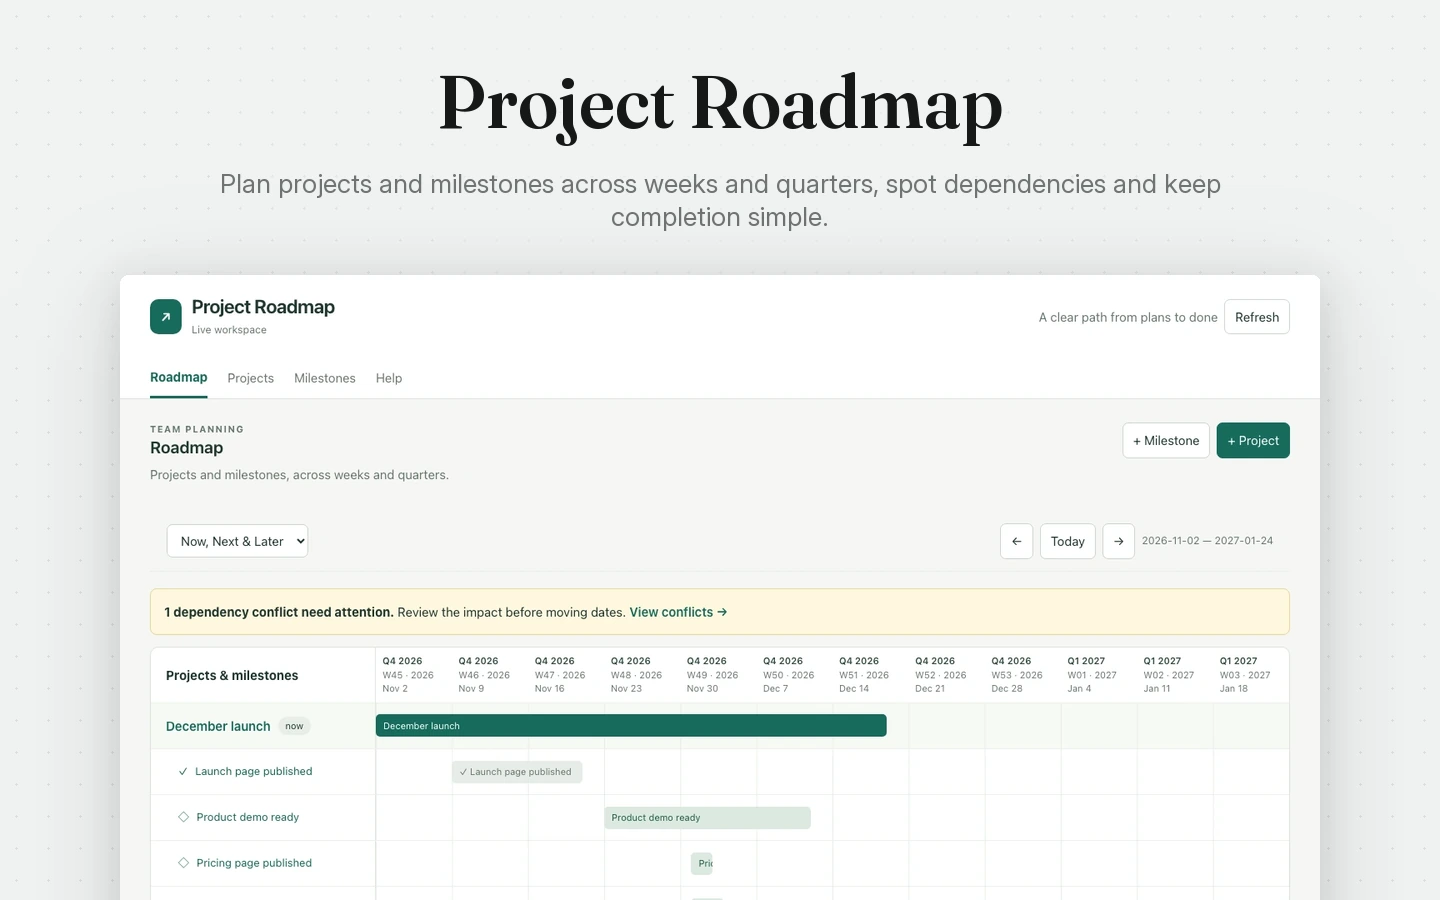
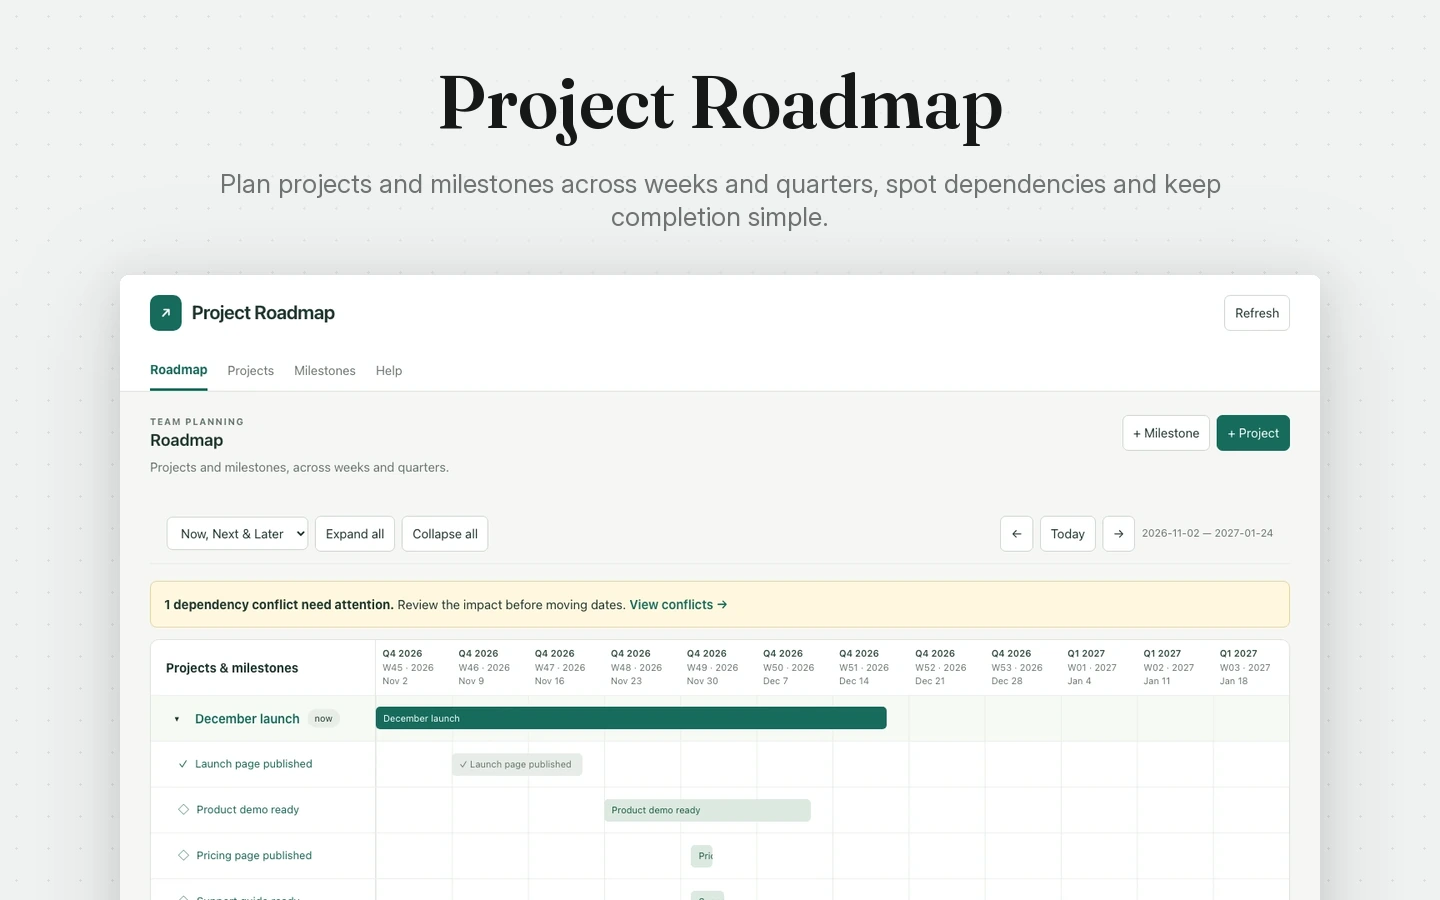
feat(project-roadmap): remember collapsed projects and show dependencies

diff --git a/templates/busa-project-roadmap/content/busa-project-roadmap-app/app/js/app.js b/templates/busa-project-roadmap/content/busa-project-roadmap-app/app/js/app.js
@@ -18,6 +18,23 @@ const root = document.querySelector("#app"),
   dialog = document.querySelector("#editor");
 const demo = new URLSearchParams(location.search).get("demo") === "1";
 const provider = demo ? createDemoProvider() : createLiveProvider();
+// Presentation preferences only; project and milestone data stay in Busa.
+const collapseKey = `project-roadmap:collapsed:v1:${location.pathname}:${demo ? "demo" : "live"}`;
+let collapsedProjects = new Set();
+try {
+  const saved = JSON.parse(localStorage.getItem(collapseKey) || "[]");
+  if (Array.isArray(saved))
+    collapsedProjects = new Set(saved.filter((id) => typeof id === "string"));
+} catch {
+  /* Storage can be unavailable in restricted browser contexts. */
+}
+function rememberCollapsed() {
+  try {
+    localStorage.setItem(collapseKey, JSON.stringify([...collapsedProjects]));
+  } catch {
+    notify("Your browser could not save the roadmap display preference.");
+  }
+}
 const state = {
   projects: [],
   milestones: [],
@@ -52,7 +69,7 @@ async function load() {
   });
 }
 function shell(content) {
-  root.innerHTML = `<header><div class="top"><div class="brand"><span class="mark" aria-hidden="true">↗</span><div><h1>Project Roadmap</h1><small>${e(provider.name)}</small></div></div><div class="actions"><span class="muted">A clear path from plans to done</span><button data-action="refresh" ${state.busy ? "disabled" : ""}>Refresh</button></div></div><nav aria-label="Sections">${["roadmap", "projects", "milestones", "help"].map((screen) => `<button data-screen="${screen}" class="${state.screen === screen ? "active" : ""}" ${state.screen === screen ? 'aria-current="page"' : ""}>${screen[0].toUpperCase() + screen.slice(1)}</button>`).join("")}</nav></header><main>${content}<p class="budget">${state.projects.length} projects · ${state.milestones.length} milestones loaded.</p>${Object.entries(
+  root.innerHTML = `<header><div class="top"><div class="brand"><span class="mark" aria-hidden="true">↗</span><div><h1>Project Roadmap</h1>${demo ? "<small>Demo preview</small>" : ""}</div></div><div class="actions"><button data-action="refresh" ${state.busy ? "disabled" : ""}>Refresh</button></div></div><nav aria-label="Sections">${["roadmap", "projects", "milestones", "help"].map((screen) => `<button data-screen="${screen}" class="${state.screen === screen ? "active" : ""}" ${state.screen === screen ? 'aria-current="page"' : ""}>${screen[0].toUpperCase() + screen.slice(1)}</button>`).join("")}</nav></header><main>${content}<p class="budget">${state.projects.length} projects · ${state.milestones.length} milestones loaded.</p>${Object.entries(
     state.cursors,
   )
     .filter(([, cursor]) => cursor)
@@ -97,17 +114,17 @@ function roadmap() {
   const conflicts = issues().filter((i) => i.kind === "conflict");
   return (
     intro("Roadmap", "Projects and milestones, across weeks and quarters.") +
-    `<div class="toolbar"><div class="actions"><label for="lane" class="sr-only">Roadmap horizon</label><select id="lane"><option value="all">Now, Next & Later</option>${["now", "next", "later"].map((l) => `<option ${state.lane === l ? "selected" : ""} value="${l}">${l[0].toUpperCase() + l.slice(1)}</option>`).join("")}</select></div><div class="actions"><button data-shift="-84" aria-label="Previous twelve weeks">←</button><button data-action="today">Today</button><button data-shift="84" aria-label="Next twelve weeks">→</button><small>${e(first)} — ${addDays(first, 83)}</small></div></div>${conflicts.length ? `<div class="warning"><b>${conflicts.length} dependency conflict${conflicts.length === 1 ? "" : "s"} need attention.</b> Review the impact before moving dates. <button class="text-button" data-action="conflicts">View conflicts →</button></div>` : ""}<div class="timeline"><div class="timeline-inner"><div class="timeline-row"><div class="row-label"><b>Projects & milestones</b></div><div class="week-grid">${columns.map((w) => `<span><b>${e(w.quarter)}</b>${e(w.label)}<br>${new Intl.DateTimeFormat("en", { month: "short", day: "numeric", timeZone: "UTC" }).format(date(w.day))}</span>`).join("")}</div></div>${
+    `<div class="toolbar"><div class="actions"><label for="lane" class="sr-only">Roadmap horizon</label><select id="lane"><option value="all">Now, Next & Later</option>${["now", "next", "later"].map((l) => `<option ${state.lane === l ? "selected" : ""} value="${l}">${l[0].toUpperCase() + l.slice(1)}</option>`).join("")}</select><button data-action="expand-all">Expand all</button><button data-action="collapse-all">Collapse all</button></div><div class="actions"><button data-shift="-84" aria-label="Previous twelve weeks">←</button><button data-action="today">Today</button><button data-shift="84" aria-label="Next twelve weeks">→</button><small>${e(first)} — ${addDays(first, 83)}</small></div></div>${conflicts.length ? `<div class="warning"><b>${conflicts.length} dependency conflict${conflicts.length === 1 ? "" : "s"} need attention.</b> Review the impact before moving dates. <button class="text-button" data-action="conflicts">View conflicts →</button></div>` : ""}<div class="timeline"><div class="timeline-inner"><div class="timeline-row"><div class="row-label"><b>Projects & milestones</b></div><div class="week-grid">${columns.map((w) => `<span><b>${e(w.quarter)}</b>${e(w.label)}<br>${new Intl.DateTimeFormat("en", { month: "short", day: "numeric", timeZone: "UTC" }).format(date(w.day))}</span>`).join("")}</div></div>${
       visible
         .map(
           (p) =>
-            `<div class="timeline-row project-row"><div class="row-label"><button class="text-button" data-open="${e(p.id)}" data-kind="projects">${e(title(p))}</button><span class="lane">${e(p.fields.lane || "later")}</span></div><div class="track">${bar(p, "projects", first)}</div></div>${state.milestones
+            `<div class="timeline-row project-row"><div class="row-label"><button class="project-toggle" data-toggle-project="${e(p.id)}" aria-expanded="${!collapsedProjects.has(p.id)}" aria-controls="project-milestones-${e(p.id)}" aria-label="${collapsedProjects.has(p.id) ? "Expand" : "Collapse"} ${e(title(p))}">${collapsedProjects.has(p.id) ? "▸" : "▾"}</button><button class="text-button" data-open="${e(p.id)}" data-kind="projects">${e(title(p))}</button><span class="lane">${e(p.fields.lane || "later")}</span></div><div class="track">${bar(p, "projects", first)}</div></div><div id="project-milestones-${e(p.id)}" ${collapsedProjects.has(p.id) ? "hidden" : ""}>${state.milestones
               .filter((m) => refs(m.fields.project).includes(p.id))
               .map(
                 (m) =>
                   `<div class="timeline-row"><div class="row-label child"><span class="dot">${m.fields.done ? "✓" : "◇"}</span><button class="text-button" data-open="${e(m.id)}" data-kind="milestones">${e(title(m))}</button></div><div class="track">${bar(m, "milestones", first)}</div></div>`,
               )
-              .join("")}`,
+              .join("")}</div>`,
         )
         .join("") ||
       '<div class="empty">No projects in this horizon. Add a project to begin.</div>'
@@ -120,8 +137,37 @@ function projects() {
     `<div class="card table-scroll"><table class="list"><thead><tr><th>Project</th><th>Owner</th><th>Horizon</th><th>Status</th><th>Planned finish</th></tr></thead><tbody>${state.projects.map((p) => `<tr><td><button class="text-button" data-open="${e(p.id)}" data-kind="projects">${e(title(p))}</button></td><td>${e(p.fields.owner || "Unassigned")}</td><td><span class="lane">${e(p.fields.lane || "later")}</span></td><td>${e(p.fields.status || "planned")}</td><td>${e(p.fields["end-date"] || "Unscheduled")}</td></tr>`).join("")}</tbody></table>${!state.projects.length ? '<p class="empty">Add your first project.</p>' : ""}</div>`
   );
 }
-function milestoneTable(rows) {
-  return `<div class="table-scroll"><table class="list"><thead><tr><th>Milestone</th><th>Project</th><th>Owner</th><th>Finish</th><th>Completion</th></tr></thead><tbody>${rows.map((m) => `<tr><td><button class="text-button" data-open="${e(m.id)}" data-kind="milestones">${e(title(m))}</button></td><td>${e(projectOf(m) ? title(projectOf(m)) : "Project not loaded")}</td><td>${e(m.fields.owner || "Unassigned")}</td><td>${e(m.fields["end-date"] || "Unscheduled")}</td><td>${m.fields.done ? '<span class="badge-done">✓ Done</span>' : `<button data-done="${e(m.id)}" ${state.busy ? "disabled" : ""}>Mark done</button>`}</td></tr>`).join("")}</tbody></table>${!rows.length ? '<p class="empty">No milestones yet.</p>' : ""}</div>`;
+function dependencySummary(row) {
+  const ids = refs(row.fields["depends-on"]);
+  if (!ids.length) return '<span class="muted">None</span>';
+  return `<ul class="dependency-links">${ids
+    .map((id) => {
+      const dependency = state.milestones.find((item) => item.id === id);
+      return `<li>${dependency ? `<button class="text-button" data-open="${e(id)}" data-kind="milestones">${e(title(dependency))}</button>` : '<span class="muted">Dependency not loaded</span>'}</li>`;
+    })
+    .join("")}</ul>`;
+}
+function dependencyEditor(kind, id, selected) {
+  const options = state[kind].filter((item) => item.id !== id);
+  return `<fieldset class="dependencies"><legend>Dependencies</legend><p class="muted">Select work that must finish first.</p><div id="dependency-selected" aria-live="polite"></div><label class="sr-only" for="dependency-search">Find dependencies</label><input type="search" id="dependency-search" placeholder="Search ${kind}…"><div class="dependency-options">${options.map((item) => `<label class="dependency-choice" data-dependency-title="${e(title(item).toLowerCase())}"><input type="checkbox" name="depends-on" value="${e(item.id)}" ${selected.includes(item.id) ? "checked" : ""}><span>${e(title(item))}</span></label>`).join("")}</div><p id="dependency-empty" class="muted" ${options.length ? "hidden" : ""}>No matching ${kind}.</p><small id="dependency-count"></small></fieldset>`;
+}
+function updateDependencySelection() {
+  const inputs = [
+    ...dialog.querySelectorAll('input[name="depends-on"]:checked'),
+  ];
+  dialog.querySelector("#dependency-count").textContent =
+    `${inputs.length} selected`;
+  dialog.querySelector("#dependency-selected").innerHTML = inputs.length
+    ? inputs
+        .map(
+          (input) =>
+            `<span class="dependency-chip">${e(input.nextElementSibling.textContent)}</span>`,
+        )
+        .join("")
+    : '<span class="muted">No dependencies selected</span>';
+}
+function milestoneTable(rows, showProject = true) {
+  return `<div class="table-scroll"><table class="list"><thead><tr><th>Milestone</th>${showProject ? "<th>Project</th>" : ""}<th>Owner</th><th>Dependencies</th><th>Finish</th><th>Completion</th></tr></thead><tbody>${rows.map((m) => `<tr><td><button class="text-button" data-open="${e(m.id)}" data-kind="milestones">${e(title(m))}</button></td>${showProject ? `<td>${e(projectOf(m) ? title(projectOf(m)) : "Project not loaded")}</td>` : ""}<td>${e(m.fields.owner || "Unassigned")}</td><td class="dependency-cell">${dependencySummary(m)}</td><td>${e(m.fields["end-date"] || "Unscheduled")}</td><td>${m.fields.done ? '<span class="badge-done">✓ Done</span>' : `<button data-done="${e(m.id)}" ${state.busy ? "disabled" : ""}>Mark done</button>`}</td></tr>`).join("")}</tbody></table>${!rows.length ? '<p class="empty">No milestones yet.</p>' : ""}</div>`;
 }
 function milestones() {
   return (
@@ -137,7 +183,10 @@ function projectDetail() {
     state.project = null;
     return projects();
   }
-  return `<button class="text-button" data-action="back">← All projects</button><div class="intro"><div><h2>${e(title(p))}</h2><span class="lane">${e(p.fields.lane || "later")}</span></div><div class="actions"><button data-edit="${e(p.id)}" data-kind="projects">Edit project</button><button data-schedule="${e(p.id)}" data-kind="projects">Propose dates</button><button class="primary" data-new="milestones">+ Milestone</button></div></div><div class="project-detail"><div class="card"><h3>Purpose, risks and decisions</h3><p class="definition">${e(p.fields.brief || "Add the purpose of this project and any important risks or decisions.")}</p></div><div class="card"><p class="detail-label">Responsible person</p><p>${e(p.fields.owner || "Unassigned")}</p><p class="detail-label">Planned dates</p><p>${e(p.fields["start-date"] || "Not set")} → ${e(p.fields["end-date"] || "Not set")}</p><p class="detail-label">Status</p><p>${e(p.fields.status || "planned")}</p></div></div><div class="card"><h3>Milestones</h3>${milestoneTable(state.milestones.filter((m) => refs(m.fields.project).includes(p.id)))}</div>`;
+  return `<button class="text-button" data-action="back">← All projects</button><div class="intro"><div><h2>${e(title(p))}</h2><span class="lane">${e(p.fields.lane || "later")}</span></div><div class="actions"><button data-edit="${e(p.id)}" data-kind="projects">Edit project</button><button data-schedule="${e(p.id)}" data-kind="projects">Propose dates</button><button class="primary" data-new="milestones">+ Milestone</button></div></div><div class="project-detail"><div class="card"><h3>Purpose, risks and decisions</h3><p class="definition">${e(p.fields.brief || "Add the purpose of this project and any important risks or decisions.")}</p></div><div class="card"><p class="detail-label">Responsible person</p><p>${e(p.fields.owner || "Unassigned")}</p><p class="detail-label">Planned dates</p><p>${e(p.fields["start-date"] || "Not set")} → ${e(p.fields["end-date"] || "Not set")}</p><p class="detail-label">Status</p><p>${e(p.fields.status || "planned")}</p></div></div><div class="card"><h3>Milestones</h3>${milestoneTable(
+    state.milestones.filter((m) => refs(m.fields.project).includes(p.id)),
+    false,
+  )}</div>`;
 }
 function help() {
   return `<div class="card help"><h2>Using Project Roadmap</h2>
@@ -147,7 +196,7 @@ function help() {
   <h3>Later — future work without a current commitment</h3><p>Use Later for work worth keeping on the roadmap that the team has not committed to starting soon. Dates can stay empty until the plan is clearer. <b>Example:</b> Operations refresh is Later while its priority and timing are still being decided.</p>
   <h3>When to move a project</h3><p>Move Next to Now when the team is ready to begin. When current work finishes, mark the project Done and choose the next ready project. Move work to Later if it loses priority. Review these choices together when you review the roadmap.</p>
   <p><b>Priority and dates are separate.</b> Now / Next / Later describes focus and planning confidence; start and finish dates place the work in specific weeks and quarters. The labels have no fixed number of weeks. Changing a label does not change dates or move a timeline bar.</p>
-  <h3>Milestones</h3><p>A milestone is a concrete outcome within a project. “What done means” describes the finished result. The owner is responsible for progress; anyone with edit access can mark it Done. There is no acceptance step. Reopen it by clearing Done in Edit milestone if work needs revisiting.</p>
+  <h3>Milestones</h3><p>A milestone is a concrete outcome within a project. “Completion criteria” describes the finished result. The owner is responsible for progress; anyone with edit access can mark it Done. There is no acceptance step. Reopen it by clearing Done in Edit milestone if work needs revisiting.</p>
   <h3>Dependencies and date proposals</h3><p>A dependency must finish before the dependent work starts. Amber bars flag conflicts among loaded records. Suggested dates preserve the work's duration. Submit a date proposal for review in Busa; the current schedule stays in place until approved.</p>
   <h3>Access and loading</h3><p>The app uses your existing Busa permissions. A normal edit is saved or submitted for review according to your access. Each load reads at most 50 records per table. Use Load more to include additional records.</p></div>`;
 }
@@ -178,18 +227,9 @@ function edit(kind, id) {
         ? "Edit " + (isProject ? "project" : "milestone")
         : "New " + (isProject ? "project" : "milestone"),
     ) +
-      `<form id="edit-form">${field("Name", "title", f.title)}${!isProject ? `<label>Project<select name="project" required>${state.projects.map((p) => `<option value="${e(p.id)}" ${refs(f.project).includes(p.id) || (!row && state.project === p.id) ? "selected" : ""}>${e(title(p))}</option>`).join("")}</select></label>` : ""}<label>${isProject ? "Purpose, risks and decisions" : "What done means"}<textarea name="${isProject ? "brief" : "description"}">${e(f[isProject ? "brief" : "description"] || "")}</textarea></label>${field("Responsible person", "owner", f.owner)}${isProject ? `<div class="form-grid"><label>Horizon<select name="lane">${options(["now", "next", "later"], f.lane || "later")}</select></label><label>Status<select name="status">${options(["planned", "active", "paused", "done"], f.status || "planned")}</select></label></div>` : `<label class="checkbox"><input name="done" type="checkbox" ${f.done ? "checked" : ""}>Done — no acceptance step</label>`}${!row ? `<div class="form-grid">${field("Planned start", "start-date", "", "date")}${field("Planned finish", "end-date", "", "date")}</div>` : '<p class="muted">Use “Propose dates” to change the schedule for review.</p>'}<label>Depends on<select name="depends-on" multiple size="3">${state[
-        kind
-      ]
-        .filter((r) => r.id !== id)
-        .map(
-          (r) =>
-            `<option value="${e(r.id)}" ${refs(f["depends-on"]).includes(r.id) ? "selected" : ""}>${e(title(r))}</option>`,
-        )
-        .join(
-          "",
-        )}</select><small>Select work that must finish first. Dependencies are optional.</small></label><div class="error" role="alert"></div><div class="form-footer"><button type="button" data-close>Cancel</button><button class="primary" type="submit">${row ? "Save changes" : "Create " + (isProject ? "project" : "milestone")}</button></div></form>`,
+      `<form id="edit-form">${field("Name", "title", f.title)}${!isProject ? `<label>Project<select name="project" required>${state.projects.map((p) => `<option value="${e(p.id)}" ${refs(f.project).includes(p.id) || (!row && state.project === p.id) ? "selected" : ""}>${e(title(p))}</option>`).join("")}</select></label>` : ""}<label>${isProject ? "Purpose, risks and decisions" : "Completion criteria"}<textarea name="${isProject ? "brief" : "description"}">${e(f[isProject ? "brief" : "description"] || "")}</textarea></label>${field("Responsible person", "owner", f.owner)}${isProject ? `<div class="form-grid"><label>Horizon<select name="lane">${options(["now", "next", "later"], f.lane || "later")}</select></label><label>Status<select name="status">${options(["planned", "active", "paused", "done"], f.status || "planned")}</select></label></div>` : `<label class="checkbox"><input name="done" type="checkbox" ${f.done ? "checked" : ""}>Done — no acceptance step</label>`}${!row ? `<div class="form-grid">${field("Planned start", "start-date", "", "date")}${field("Planned finish", "end-date", "", "date")}</div>` : '<p class="muted">Use “Propose dates” to change the schedule for review.</p>'}${dependencyEditor(kind, id, refs(f["depends-on"]))}<div class="error" role="alert"></div><div class="form-footer"><button type="button" data-close>Cancel</button><button class="primary" type="submit">${row ? "Save changes" : "Create " + (isProject ? "project" : "milestone")}</button></div></form>`,
   );
+  updateDependencySelection();
   const key = crypto.randomUUID();
   dialog.querySelector("form").onsubmit = async (event) => {
     event.preventDefault();
@@ -231,7 +271,7 @@ function milestoneDetail(id) {
   const m = state.milestones.find((m) => m.id === id);
   showDialog(
     dialogHeader(title(m)) +
-      `<p class="muted">${e(projectOf(m) ? title(projectOf(m)) : "Project not loaded")}</p><h3>What done means</h3><p class="definition">${e(m.fields.description || "Describe the finished result.")}</p><p><b>Responsible:</b> ${e(m.fields.owner || "Unassigned")}</p><p><b>Dates:</b> ${e(m.fields["start-date"] || "Not set")} → ${e(m.fields["end-date"] || "Not set")}</p><p>${m.fields.done ? "✓ Done" : "In progress"}</p><div class="actions"><button data-edit="${e(id)}" data-kind="milestones">Edit milestone</button><button data-schedule="${e(id)}" data-kind="milestones">Propose dates</button>${!m.fields.done ? `<button class="primary" data-done="${e(id)}">Mark done</button>` : ""}</div>`,
+      `<p class="muted">${e(projectOf(m) ? title(projectOf(m)) : "Project not loaded")}</p><h3>Dependencies</h3>${dependencySummary(m)}<h3>Completion criteria</h3><p class="definition">${e(m.fields.description || "Describe the finished result.")}</p><p><b>Responsible:</b> ${e(m.fields.owner || "Unassigned")}</p><p><b>Dates:</b> ${e(m.fields["start-date"] || "Not set")} → ${e(m.fields["end-date"] || "Not set")}</p><p>${m.fields.done ? "✓ Done" : "In progress"}</p><div class="actions"><button data-edit="${e(id)}" data-kind="milestones">Edit milestone</button><button data-schedule="${e(id)}" data-kind="milestones">Propose dates</button>${!m.fields.done ? `<button class="primary" data-done="${e(id)}">Mark done</button>` : ""}</div>`,
   );
 }
 function schedule(kind, id, suggestion) {
@@ -319,7 +359,30 @@ async function click(event) {
     dialog.close();
     return;
   }
-  if (b.dataset.screen) {
+  if (
+    b.dataset.toggleProject ||
+    ["expand-all", "collapse-all"].includes(b.dataset.action)
+  ) {
+    const id = b.dataset.toggleProject;
+    const scroll = root.querySelector(".timeline")?.scrollLeft || 0;
+    if (id) {
+      if (collapsedProjects.has(id)) collapsedProjects.delete(id);
+      else collapsedProjects.add(id);
+    } else {
+      for (const project of state.projects) {
+        if (b.dataset.action === "collapse-all")
+          collapsedProjects.add(project.id);
+        else collapsedProjects.delete(project.id);
+      }
+    }
+    rememberCollapsed();
+    render();
+    root.querySelector(".timeline").scrollLeft = scroll;
+    const selector = id
+      ? `[data-toggle-project="${CSS.escape(id)}"]`
+      : `[data-action="${b.dataset.action}"]`;
+    root.querySelector(selector)?.focus({ preventScroll: true });
+  } else if (b.dataset.screen) {
     state.screen = b.dataset.screen;
     state.project = null;
     render();
@@ -330,6 +393,7 @@ async function click(event) {
     if (dialog.open) dialog.close();
     edit(b.dataset.kind, b.dataset.edit);
   } else if (b.dataset.open) {
+    if (dialog.open) dialog.close();
     if (b.dataset.kind === "projects") {
       state.screen = "projects";
       state.project = b.dataset.open;
@@ -393,7 +457,19 @@ async function click(event) {
 document.addEventListener("click", (event) => {
   click(event).catch((error) => notify(error.message));
 });
+document.addEventListener("input", (event) => {
+  if (event.target.id !== "dependency-search") return;
+  const query = event.target.value.trim().toLowerCase();
+  const options = [...dialog.querySelectorAll(".dependency-choice")];
+  options.forEach((option) => {
+    option.hidden = !option.dataset.dependencyTitle.includes(query);
+  });
+  dialog.querySelector("#dependency-empty").hidden = options.some(
+    (option) => !option.hidden,
+  );
+});
 document.addEventListener("change", (event) => {
+  if (event.target.name === "depends-on") updateDependencySelection();
   if (event.target.id === "lane") {
     state.lane = event.target.value;
     render();

diff --git a/templates/busa-project-roadmap/content/busa-project-roadmap-app/app/roadmap.css b/templates/busa-project-roadmap/content/busa-project-roadmap-app/app/roadmap.css
@@ -457,3 +457,76 @@ textarea {
   white-space: nowrap;
   border: 0;
 }
+
+.project-toggle {
+  flex: 0 0 26px;
+  padding: 2px;
+  border: 0;
+  background: transparent;
+  font-size: 18px;
+  line-height: 1.2;
+}
+[hidden] {
+  display: none !important;
+}
+
+.dependencies {
+  border: 1px solid #dce2db;
+  border-radius: 8px;
+  margin: 18px 0 0;
+  padding: 12px;
+}
+.dependencies legend {
+  font-weight: 600;
+  padding: 0 5px;
+}
+.dependencies > input {
+  width: 100%;
+  margin: 10px 0;
+}
+.dependency-options {
+  max-height: 175px;
+  overflow-y: auto;
+}
+.dependency-choice {
+  display: flex;
+  align-items: start;
+  gap: 10px;
+  padding: 8px 4px;
+  margin: 0;
+  cursor: pointer;
+}
+.dependency-choice input {
+  width: 18px;
+  height: 18px;
+  flex: 0 0 18px;
+  margin: 2px 0 0;
+}
+#dependency-selected {
+  display: flex;
+  flex-wrap: wrap;
+  gap: 6px;
+}
+.dependency-chip {
+  background: #e7eee7;
+  border-radius: 5px;
+  padding: 3px 8px;
+  font-size: 12px;
+}
+.dependency-links {
+  margin: 0;
+  padding: 0;
+  list-style: none;
+}
+.dependency-links li + li {
+  margin-top: 5px;
+}
+.dependency-links .text-button {
+  white-space: normal;
+  font-weight: 400;
+  padding: 0;
+}
+.dependency-cell {
+  min-width: 160px;
+  max-width: 260px;
+}
